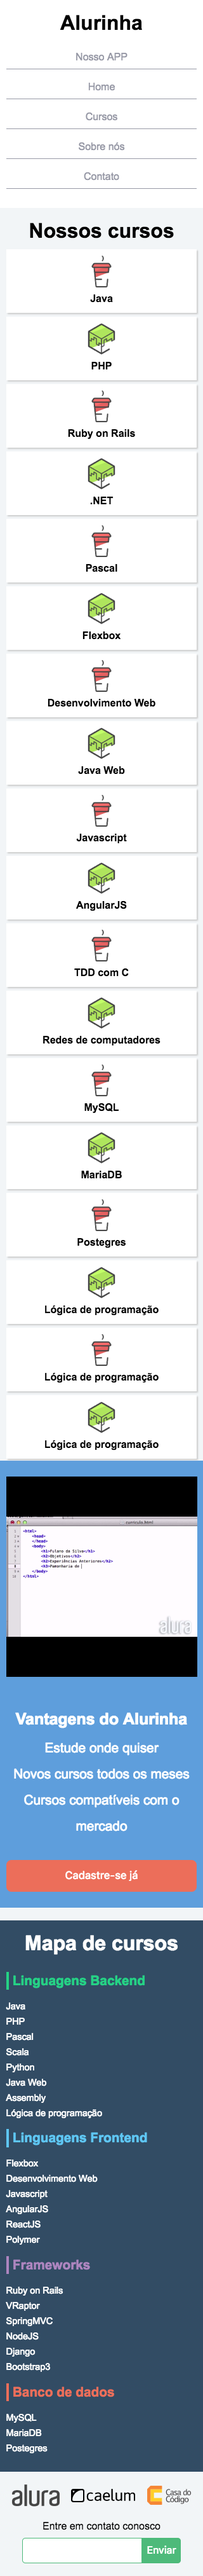
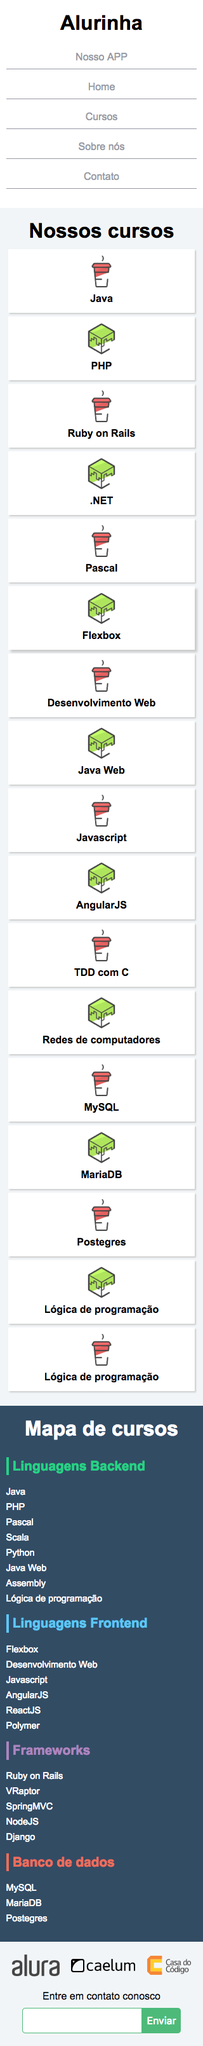
aula1

diff --git a/css/flexbox.css b/css/flexbox.css
@@ -1,0 +1,10 @@
+.cabecalhoPrincipal .container {
+	display: flex;
+	justify-content: space-between;
+	align-items: center;
+}
+
+.cabecalhoPrincipal-nav {
+	display: flex;
+}
+
